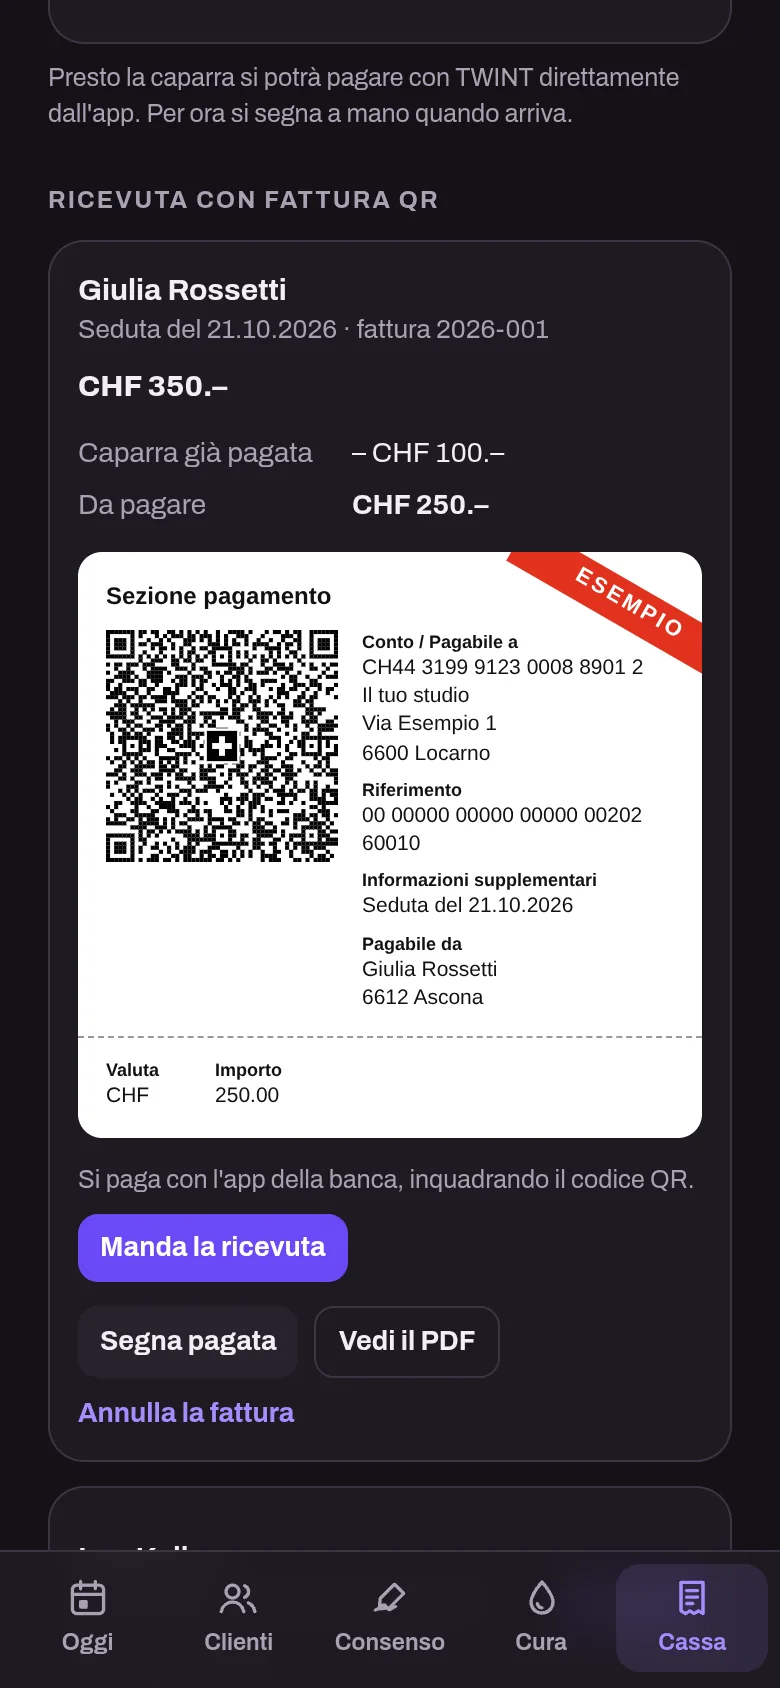
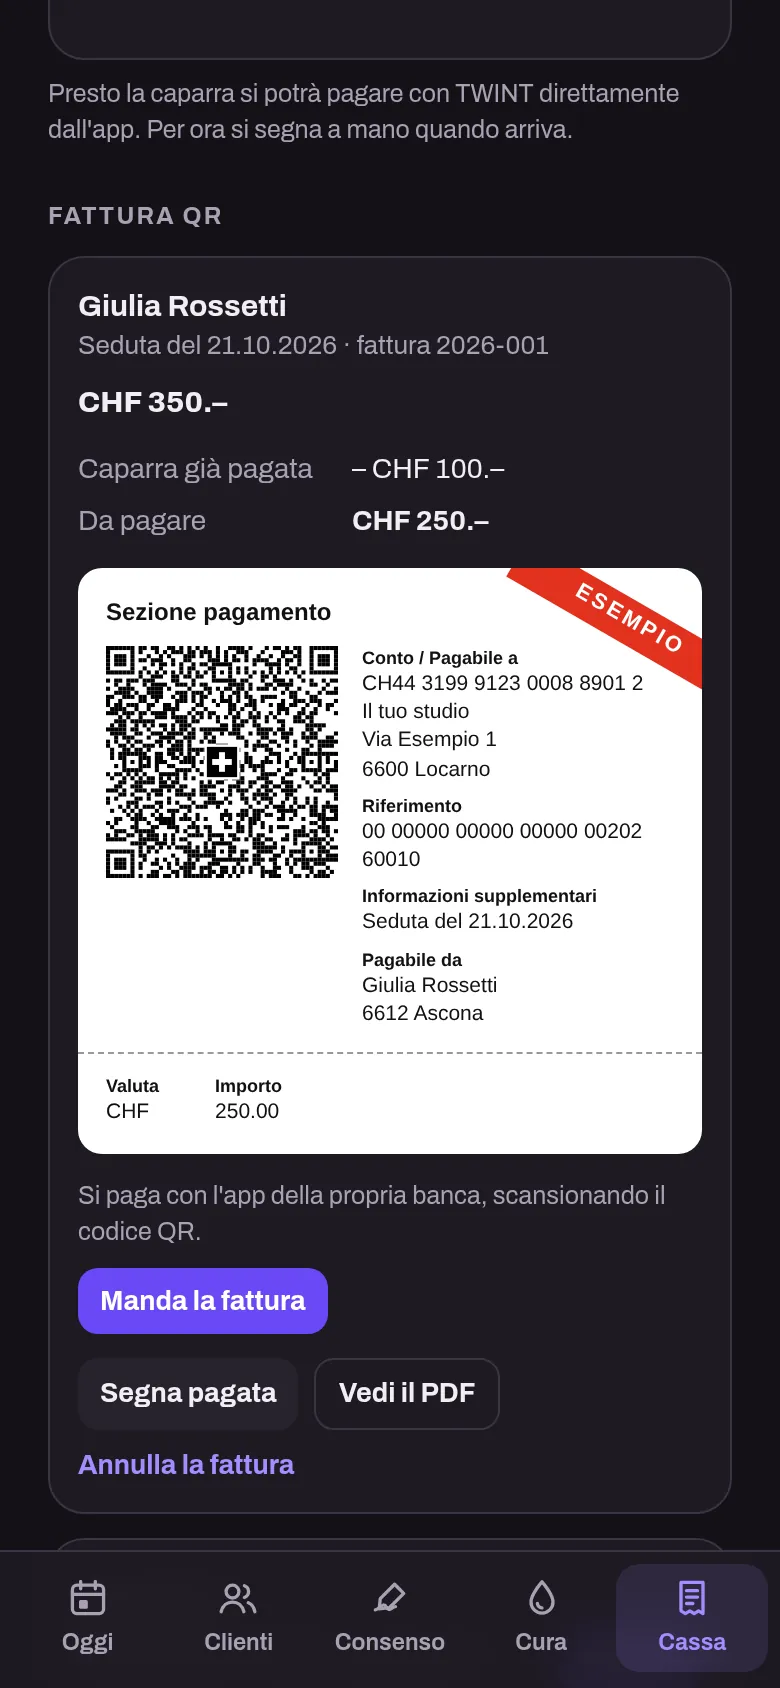
fix(web): Inkzzu page calls the QR document an invoice
The document with an amount still to pay is a QR invoice (fattura), not a receipt (ricevuta), as in the
app since today. Two screenshots retaken from the current app: the cash screen and the German consent form
with the studio's address and phone.

Claude-Session: https://claude.ai/code/session_01GrMZutLJGBb79kQJBhn8qP

Changed region(s): [[0.0615, 0.0308, 0.9231, 0.6161], [0.0615, 0.6161, 0.8923, 0.9242], [0.4615, 0.1848, 0.7077, 0.2156]]

diff --git a/inkzzu/index.html b/inkzzu/index.html
@@ -4,7 +4,7 @@
 <meta charset="utf-8">
 <meta name="viewport" content="width=device-width, initial-scale=1">
 <title>Inkzzu — il gestionale per studi di tatuaggio e piercing</title>
-<meta name="description" content="Agenda del giorno, consenso nella lingua del cliente, cura dopo la seduta, registri per il Laboratorio cantonale e ricevute con la fattura QR. Gratis su un telefono. Un'app di UtoApps, pensata per il Ticino.">
+<meta name="description" content="Agenda del giorno, consenso nella lingua del cliente, cura dopo la seduta, registri per il Laboratorio cantonale e fatture QR. Gratis su un telefono. Un'app di UtoApps, pensata per il Ticino.">
 <link rel="canonical" href="https://www.utoapps.ch/inkzzu/">
 <meta property="og:title" content="Inkzzu — il gestionale per studi di tatuaggio e piercing">
 <meta property="og:description" content="Agenda, consenso nella lingua del cliente, cura dopo la seduta, Laboratorio cantonale e fattura QR. Gratis su un telefono.">
@@ -39,7 +39,7 @@
       <div>
         <p class="occhiello">Per studi di tatuaggio e piercing</p>
         <h1>Il gestionale per studi di tatuaggio e piercing, pensato per il Ticino</h1>
-        <p class="sotto">Agenda del giorno, consenso nella lingua del cliente, cura dopo la seduta, registri per il Laboratorio cantonale e ricevute con la fattura QR. Gratis su un telefono.</p>
+        <p class="sotto">Agenda del giorno, consenso nella lingua del cliente, cura dopo la seduta, registri per il Laboratorio cantonale e fatture QR. Gratis su un telefono.</p>
         <div class="cta">
           <a class="btn primario" href="https://inkzzu.web.app/">Apri Inkzzu</a>
           <a class="btn secondario" href="#video">Guarda il video</a>
@@ -53,7 +53,7 @@
   <section id="video">
     <div class="wrap">
       <h2>Guardalo in azione</h2>
-      <p class="intro">Due minuti di una giornata in studio, dall'agenda alla ricevuta.</p>
+      <p class="intro">Due minuti di una giornata in studio, dall'agenda alla fattura QR.</p>
       <div class="video">
         <video controls preload="none" playsinline poster="/media/inkzzu-demo-poster.jpg" width="1080" height="1920">
           <source src="/media/inkzzu-demo-it.mp4" type="video/mp4">
@@ -89,7 +89,7 @@
         </div>
         <div class="scheda">
           <h3>Cassa e fattura QR</h3>
-          <p>Caparre e incassi del mese, e la ricevuta con la fattura QR svizzera in PDF, da mandare al cliente.</p>
+          <p>Caparre e incassi del mese, e la fattura QR svizzera in PDF, da mandare al cliente.</p>
           <span class="presto">Presto: la caparra con TWINT</span>
         </div>
         <div class="scheda">
@@ -100,7 +100,7 @@
       <div class="schermi">
         <figure><img src="assets/consenso.webp" width="780" height="1688" loading="lazy" alt="Il consenso in tedesco, compilato dalla cliente sul telefono dello studio"><figcaption>Il consenso, in tedesco</figcaption></figure>
         <figure><img src="assets/cura.webp" width="780" height="1688" loading="lazy" alt="I messaggi di cura dopo la seduta, giorno per giorno"><figcaption>La cura dopo la seduta</figcaption></figure>
-        <figure><img src="assets/cassa.webp" width="780" height="1688" loading="lazy" alt="La ricevuta con la fattura QR svizzera"><figcaption>La ricevuta con la fattura QR</figcaption></figure>
+        <figure><img src="assets/cassa.webp" width="780" height="1688" loading="lazy" alt="La fattura QR svizzera"><figcaption>La fattura QR</figcaption></figure>
         <figure><img src="assets/clienti.webp" width="780" height="1688" loading="lazy" alt="L'elenco dei clienti dello studio"><figcaption>I clienti</figcaption></figure>
       </div>
       <p class="didascalia">Schermate con dati di esempio.</p>

diff --git a/inkzzu/privacy.html b/inkzzu/privacy.html
@@ -65,7 +65,7 @@
     <h2><span class="num">07</span>Conservazione e cancellazione</h2>
     <p>I dati restano finché lo studio li cancella. Lo studio può chiederci in qualsiasi momento di cancellare dal server tutti i dati del suo studio, scrivendo a <a href="mailto:info@utoapps.ch">info@utoapps.ch</a>.</p>
     <p>Quando finiscono la prova o l'abbonamento, lo studio può scaricare i suoi dati per 30 giorni; poi UtoApps li cancella dal server.</p>
-    <p>Conservare i consensi e le ricevute per il tempo che chiede la legge è compito dello studio: prima di chiedere la cancellazione conviene scaricarne una copia (Impostazioni → «Scarica una copia»).</p>
+    <p>Conservare i consensi, le ricevute e le fatture per il tempo che chiede la legge è compito dello studio: prima di chiedere la cancellazione conviene scaricarne una copia (Impostazioni → «Scarica una copia»).</p>
   </section>
 
   <section class="scheda">

diff --git a/inkzzu/terms.html b/inkzzu/terms.html
@@ -30,7 +30,7 @@
 
   <section class="scheda">
     <h2><span class="num">02</span>Che cos'è Inkzzu</h2>
-    <p>Un'app web per studi di tatuaggio e piercing: agenda, consensi, cura dopo la seduta, registri d'igiene, cassa e ricevute con la fattura QR. È pensata per studi che lavorano in Svizzera.</p>
+    <p>Un'app web per studi di tatuaggio e piercing: agenda, consensi, cura dopo la seduta, registri d'igiene, cassa e fatture QR. È pensata per studi che lavorano in Svizzera.</p>
   </section>
 
   <section class="scheda">
